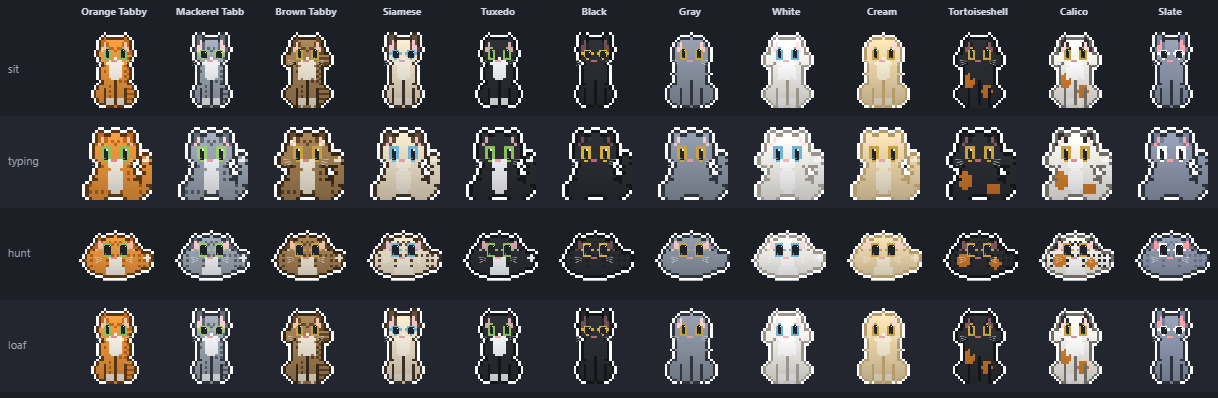
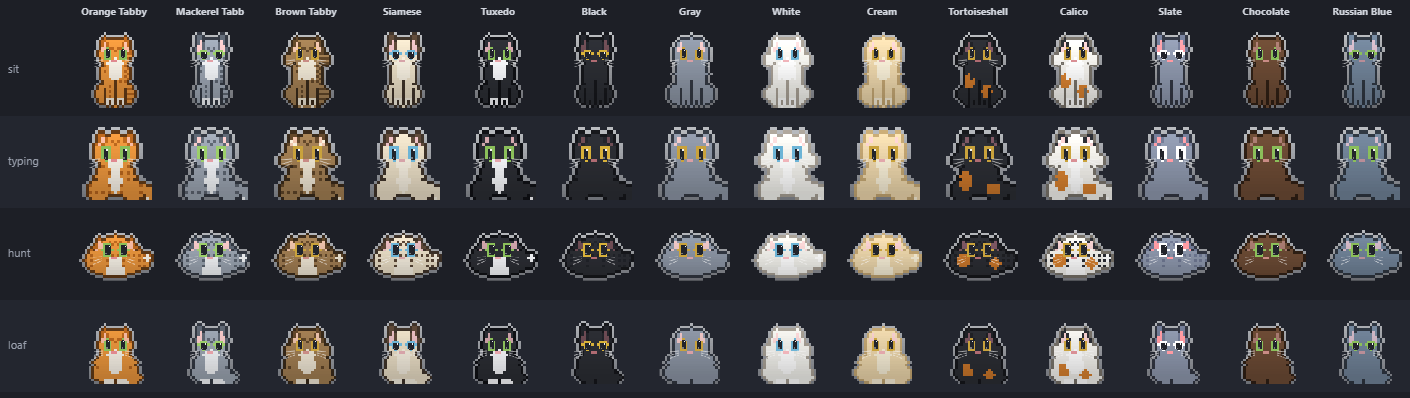
fix(site): sync coat data to 14 coats (add Chocolate + Russian Blue)
The site's cat-sprite.js had drifted to 12 coats, so a rebuild would have
silently dropped Chocolate and Russian Blue. Sync PATTERNS/PATTERN_BUILD/
TABBY to src, refresh the 14-coat showcase (png + webp), and update the
stale '12 coats' copy and image dimensions in index.html.

diff --git a/site/index.html b/site/index.html
@@ -8,22 +8,22 @@
 <meta name="description" content="pixelcat is a cute pixel cat for your Windows desktop. It follows your cursor, kneads the keyboard when you type, purrs when you pet it, and stretches like mochi. Free & open source." />
 <link rel="canonical" href="https://pixelcat-jet.vercel.app/" />
 <meta property="og:title" content="pixelcat - a cat that lives on your desktop" />
-<meta property="og:description" content="A from-scratch desktop pet. Follows your cursor, purrs when you pet it, plays with a butterfly, stretches like mochi, gets the zoomies. 12 coats. Free & open source." />
+<meta property="og:description" content="A from-scratch desktop pet. Follows your cursor, purrs when you pet it, plays with a butterfly, stretches like mochi, gets the zoomies. 14 coats. Free & open source." />
 <meta property="og:image" content="https://pixelcat-jet.vercel.app/assets/showcase.png" />
-<meta property="og:image:width" content="1218" />
+<meta property="og:image:width" content="1410" />
 <meta property="og:image:height" content="398" />
-<meta property="og:image:alt" content="The pixelcat cat in every pose across all 12 coats" />
+<meta property="og:image:alt" content="The pixelcat cat in every pose across all 14 coats" />
 <meta property="og:url" content="https://pixelcat-jet.vercel.app/" />
 <meta property="og:type" content="website" />
 <meta name="twitter:card" content="summary_large_image" />
 <meta name="twitter:title" content="pixelcat - a cat that lives on your desktop" />
-<meta name="twitter:description" content="A from-scratch desktop pet. Follows your cursor, purrs when you pet it, plays with a butterfly, gets the zoomies. 12 coats. Free & open source." />
+<meta name="twitter:description" content="A from-scratch desktop pet. Follows your cursor, purrs when you pet it, plays with a butterfly, gets the zoomies. 14 coats. Free & open source." />
 <meta name="twitter:image" content="https://pixelcat-jet.vercel.app/assets/showcase.png" />
 <meta name="theme-color" content="#191b22" />
 <link rel="icon" href="assets/icon.png" />
 <link rel="apple-touch-icon" href="assets/icon.png" />
 <script type="application/ld+json">
-{"@context":"https://schema.org","@type":"SoftwareApplication","name":"pixelcat","applicationCategory":"UtilitiesApplication","operatingSystem":"Windows, macOS","description":"A cute, from-scratch pixel cat that lives on your desktop: follows your cursor, purrs when you pet it, plays with a butterfly, kneads the keyboard when you type, and gets the zoomies. 12 coats. Free & open source.","image":"https://pixelcat-jet.vercel.app/assets/showcase.png","url":"https://pixelcat-jet.vercel.app/","offers":{"@type":"Offer","price":"0","priceCurrency":"USD"},"author":{"@type":"Person","name":"JohnsonKC201"},"license":"https://github.com/JOhnsonKC201/pixelcat/blob/main/LICENSE"}
+{"@context":"https://schema.org","@type":"SoftwareApplication","name":"pixelcat","applicationCategory":"UtilitiesApplication","operatingSystem":"Windows, macOS","description":"A cute, from-scratch pixel cat that lives on your desktop: follows your cursor, purrs when you pet it, plays with a butterfly, kneads the keyboard when you type, and gets the zoomies. 14 coats. Free & open source.","image":"https://pixelcat-jet.vercel.app/assets/showcase.png","url":"https://pixelcat-jet.vercel.app/","offers":{"@type":"Offer","price":"0","priceCurrency":"USD"},"author":{"@type":"Person","name":"JohnsonKC201"},"license":"https://github.com/JOhnsonKC201/pixelcat/blob/main/LICENSE"}
 </script>
 <link rel="preload" as="font" type="font/woff2" href="assets/fonts/press-start-2p-latin.woff2" crossorigin />
 <link rel="preload" as="font" type="font/woff2" href="assets/fonts/vt323-latin.woff2" crossorigin />
@@ -151,7 +151,7 @@ h1.title small{display:block; font-size:34px}
   padding:14px 14px 30px; box-shadow:var(--shadow);
   border-radius:14px;
 }
-.crt .screen{position:relative; overflow:hidden; background:#1c1f27; border:2px solid #05060a; border-radius:6px; aspect-ratio:1218 / 398}
+.crt .screen{position:relative; overflow:hidden; background:#1c1f27; border:2px solid #05060a; border-radius:6px; aspect-ratio:1410 / 398}
 .crt .screen img{width:100%; height:auto; image-rendering:pixelated; display:block;
   filter:saturate(1.05) contrast(1.02)}
 .crt .screen .livecat{position:absolute; inset:0; width:100%; height:100%; display:block; image-rendering:pixelated; z-index:1; cursor:pointer}
@@ -399,7 +399,7 @@ footer{border-top:3px solid #0e1016; background:#13141a; padding:46px 0 60px; ma
         <a class="btn ghost" href="https://github.com/JOhnsonKC201/pixelcat" target="_blank" rel="noopener">★ view source</a>
       </div>
       <div class="meta-row">
-        <span>🐈 <b>12</b> coats</span>
+        <span>🐈 <b>14</b> coats</span>
         <span>🎨 custom coats</span>
         <span>🔊 synthesized meow</span>
         <span>💸 <b>free</b> &amp; open source</span>
@@ -414,7 +414,7 @@ footer{border-top:3px solid #0e1016; background:#13141a; padding:46px 0 60px; ma
           <!-- static sprite sheet behind the canvas: the hero never renders blank if JS is slow/blocked -->
           <picture>
             <source srcset="assets/showcase.webp" type="image/webp" />
-            <img class="screen-fallback" src="assets/showcase.png" alt="pixelcat - every pose (sit, typing, hunt, loaf) across all 12 coats" width="1218" height="398" decoding="async" />
+            <img class="screen-fallback" src="assets/showcase.png" alt="pixelcat - every pose (sit, typing, hunt, loaf) across all 14 coats" width="1410" height="398" decoding="async" />
           </picture>
           <canvas id="liveCat" class="livecat" role="img" aria-label="A live pixel-art cat that breathes, blinks, watches your cursor, purrs when you pet its head, and plays with a butterfly"></canvas>
         </div>
@@ -435,8 +435,8 @@ footer{border-top:3px solid #0e1016; background:#13141a; padding:46px 0 60px; ma
 <!-- ===================================================== MARQUEE -->
 <div class="marquee" aria-hidden="true">
   <div class="track" id="mqTrack">
-    <span><i>◆</i> eye-follow &amp; blink <i>◆</i> head-pet purrs <i>◆</i> butterfly play <i>◆</i> mochi-drag <i>◆</i> keyboard kneading <i>◆</i> mouse hunt <i>◆</i> scroll-climb <i>◆</i> pomodoro timer <i>◆</i> reminders <i>◆</i> pinned notes <span class="s">◆</span> moods &amp; energy <i>◆</i> mail &amp; calendar <i>◆</i> AI agent reactions <i>◆</i> 12 coats <i>◆</i>&nbsp;</span>
-    <span><i>◆</i> eye-follow &amp; blink <i>◆</i> head-pet purrs <i>◆</i> butterfly play <i>◆</i> mochi-drag <i>◆</i> keyboard kneading <i>◆</i> mouse hunt <i>◆</i> scroll-climb <i>◆</i> pomodoro timer <i>◆</i> reminders <i>◆</i> pinned notes <span class="s">◆</span> moods &amp; energy <i>◆</i> mail &amp; calendar <i>◆</i> AI agent reactions <i>◆</i> 12 coats <i>◆</i>&nbsp;</span>
+    <span><i>◆</i> eye-follow &amp; blink <i>◆</i> head-pet purrs <i>◆</i> butterfly play <i>◆</i> mochi-drag <i>◆</i> keyboard kneading <i>◆</i> mouse hunt <i>◆</i> scroll-climb <i>◆</i> pomodoro timer <i>◆</i> reminders <i>◆</i> pinned notes <span class="s">◆</span> moods &amp; energy <i>◆</i> mail &amp; calendar <i>◆</i> AI agent reactions <i>◆</i> 14 coats <i>◆</i>&nbsp;</span>
+    <span><i>◆</i> eye-follow &amp; blink <i>◆</i> head-pet purrs <i>◆</i> butterfly play <i>◆</i> mochi-drag <i>◆</i> keyboard kneading <i>◆</i> mouse hunt <i>◆</i> scroll-climb <i>◆</i> pomodoro timer <i>◆</i> reminders <i>◆</i> pinned notes <span class="s">◆</span> moods &amp; energy <i>◆</i> mail &amp; calendar <i>◆</i> AI agent reactions <i>◆</i> 14 coats <i>◆</i>&nbsp;</span>
   </div>
 </div>
 
@@ -486,8 +486,8 @@ footer{border-top:3px solid #0e1016; background:#13141a; padding:46px 0 60px; ma
 <section id="coats">
   <div class="wrap">
     <div class="sec-head rv">
-      <div class="kicker">// 12 BUILT-IN COATS + YOUR OWN</div>
-      <h2 class="sec">one shape, a dozen cats</h2>
+      <div class="kicker">// 14 BUILT-IN COATS + YOUR OWN</div>
+      <h2 class="sec">one shape, fourteen cats</h2>
       <p>Every cat is one role-coded sprite, recolored per pattern at draw time. Tap any coat below to try it on the live cat - or right-click the cat itself to cycle. Then design your own.</p>
     </div>
     <div class="coatgrid" id="coatGrid"></div>

diff --git a/site/cat-sprite.js b/site/cat-sprite.js
@@ -118,7 +118,7 @@ const PATTERNS = [
   { name: 'Mackerel Tabby', coat: '#9aa3b0', mark: '#5c6470', white: '#f2f4f7', patch: '#9aa3b0', eye: '#9ccf6a', nose: '#e3a0a6', inner: '#f0c4c4', outline: '#2f343d' },
   { name: 'Brown Tabby', coat: '#a07d52', mark: '#5f4528', white: '#efe6d4', patch: '#a07d52', eye: '#c9a23c', nose: '#c98b85', inner: '#e6bda6', outline: '#352718' },
   { name: 'Siamese', coat: '#e8dcc4', mark: '#5a4636', white: '#f3ecdd', patch: '#e8dcc4', eye: '#6db4d6', nose: '#d6a3a8', inner: '#e3b9bd', outline: '#3a2f26' },
-  { name: 'Tuxedo', coat: '#2b2d33', mark: '#2b2d33', white: '#f4f5f7', patch: '#2b2d33', eye: '#8bbf5a', nose: '#e6a6ac', inner: '#caa0a6', outline: '#141519' },
+  { name: 'Tuxedo', coat: '#2b2d33', mark: '#2b2d33', white: '#f7f8fb', patch: '#2b2d33', eye: '#8bbf5a', nose: '#e6a6ac', inner: '#caa0a6', outline: '#0e0f13' },
   { name: 'Black', coat: '#2b2d33', mark: '#212329', white: '#2b2d33', patch: '#2b2d33', eye: '#d8b13a', nose: '#b06b72', inner: '#6b4a52', outline: '#141519' },
   { name: 'Gray', coat: '#8b94a3', mark: '#8b94a3', white: '#8b94a3', patch: '#8b94a3', eye: '#c9a23c', nose: '#d99fa5', inner: '#e9c2c2', outline: '#2f343d' },
   { name: 'White', coat: '#f2f1ec', mark: '#f2f1ec', white: '#ffffff', patch: '#f2f1ec', eye: '#6db4d6', nose: '#f0b4ba', inner: '#f7d4d4', outline: '#9b948a' },
@@ -126,6 +126,13 @@ const PATTERNS = [
   { name: 'Tortoiseshell', coat: '#2b2d33', mark: '#1f2024', white: '#2b2d33', patch: '#c9762a', eye: '#c9a23c', nose: '#b06b72', inner: '#7a5560', outline: '#141519' },
   { name: 'Calico', coat: '#f3f1ec', mark: '#2b2d33', white: '#ffffff', patch: '#d6802f', eye: '#c9a23c', nose: '#d98f95', inner: '#f0cccc', outline: '#6f6a62' },
   { name: 'Slate', coat: '#8d97ac', mark: '#6f7892', white: '#8d97ac', patch: '#8d97ac', eye: '#ffffff', nose: '#ff9aa2', inner: '#ff9aa2', outline: '#2e323d' },
+  // Chocolate (Havana Brown): a solid warm-brown coat with vivid green eyes - fills the
+  // gap left by the striped Brown Tabby. Solid coat (white/mark/patch == coat: no bib,
+  // no dark ears, no stripes), like Black/Gray/Slate. Slightly warmer inner ear so it reads.
+  { name: 'Chocolate', coat: '#6b4a34', mark: '#6b4a34', white: '#6b4a34', patch: '#6b4a34', eye: '#8bbf5a', nose: '#c98b85', inner: '#a5786e', outline: '#2c1d13' },
+  // Russian Blue: a cool, slightly darker blue-grey solid with the breed's signature
+  // vivid green eyes and a mauve nose - distinct from Gray (gold eyes) and Slate (white eyes).
+  { name: 'Russian Blue', coat: '#6f8196', mark: '#6f8196', white: '#6f8196', patch: '#6f8196', eye: '#8bbf5a', nose: '#b98d97', inner: '#cdb4c2', outline: '#2b323c' },
 ];
 
 // Body-build archetypes - different breeds get different silhouettes.
@@ -135,9 +142,9 @@ const BUILDS = {
   stocky: { bodyW: 1.16, headRx: 6.8, headRy: 6.0, earApexY: 1.4, earW: 2.7, earOut: 3.9, cheek: 1, eyeRx: 2.0, eyeRy: 2.2 },
   fluffy: { bodyW: 1.08, headRx: 6.4, headRy: 5.9, earApexY: 0.8, earW: 2.5, earOut: 4, fluff: true, eyeRx: 2.0, eyeRy: 2.3 },
 };
-//  Orange    Mackerel  Brown    Siamese   Tuxedo    Black     Gray     White    Cream    Tortie   Calico   Slate
-const PATTERN_BUILD = ['standard', 'slender', 'fluffy', 'slender', 'standard', 'slender', 'stocky', 'fluffy', 'stocky', 'fluffy', 'fluffy', 'slender'];
-const TABBY = [true, true, true, false, false, false, false, false, false, false, false, false]; // only Orange/Mackerel/Brown get stripes
+//  Orange    Mackerel  Brown    Siamese   Tuxedo    Black     Gray     White    Cream    Tortie   Calico   Slate     Chocolate  Russian Blue
+const PATTERN_BUILD = ['standard', 'slender', 'fluffy', 'slender', 'standard', 'slender', 'stocky', 'fluffy', 'stocky', 'fluffy', 'fluffy', 'slender', 'standard', 'slender'];
+const TABBY = [true, true, true, false, false, false, false, false, false, false, false, false, false, false]; // only Orange/Mackerel/Brown get stripes
 
 // ---- colour helpers ---------------------------------------------------------
 function hexToRgb(h) { const n = parseInt(h.slice(1), 16); return [(n >> 16) & 255, (n >> 8) & 255, n & 255]; }
